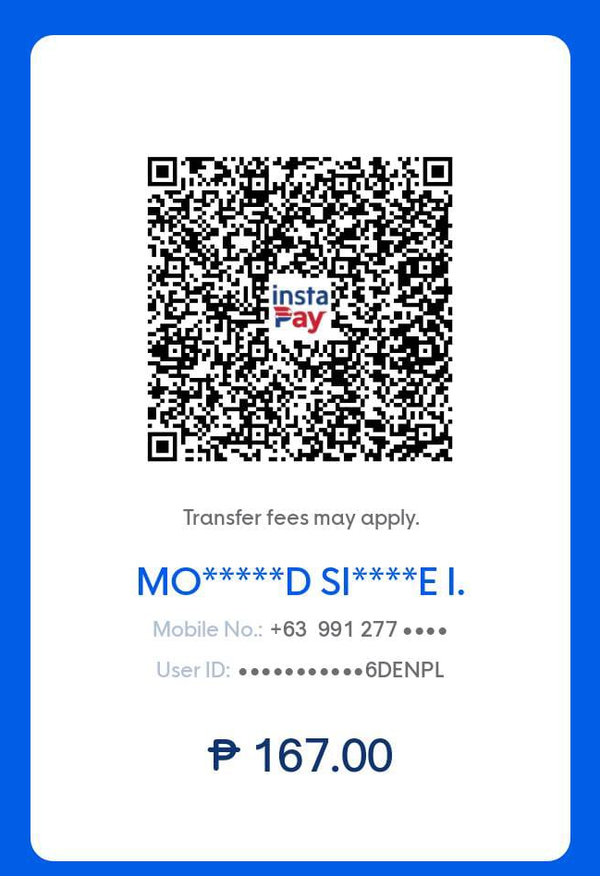
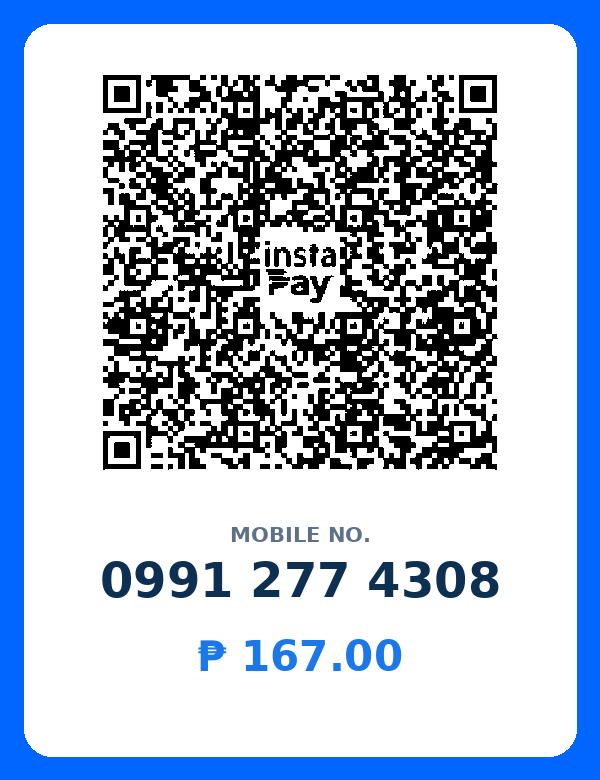
QR card: QR code + mobile number only, remove name and user ID

diff --git a/index.html b/index.html
@@ -1149,7 +1149,7 @@
           <span class="eyebrow" style="color: var(--primary-dark);">Pay and send details</span>
           <h3>Easy payment, easy process</h3>
           <div class="qr-box">
-            <img src="qr-payment-167.png" alt="GCash QR code for the ₱167 reviewer payment" width="600" height="876" />
+            <img src="qr-payment-167.png" alt="GCash QR code for the ₱167 reviewer payment" width="600" height="780" />
           </div>
           <div class="amount">
             <small>Amount to send</small>
